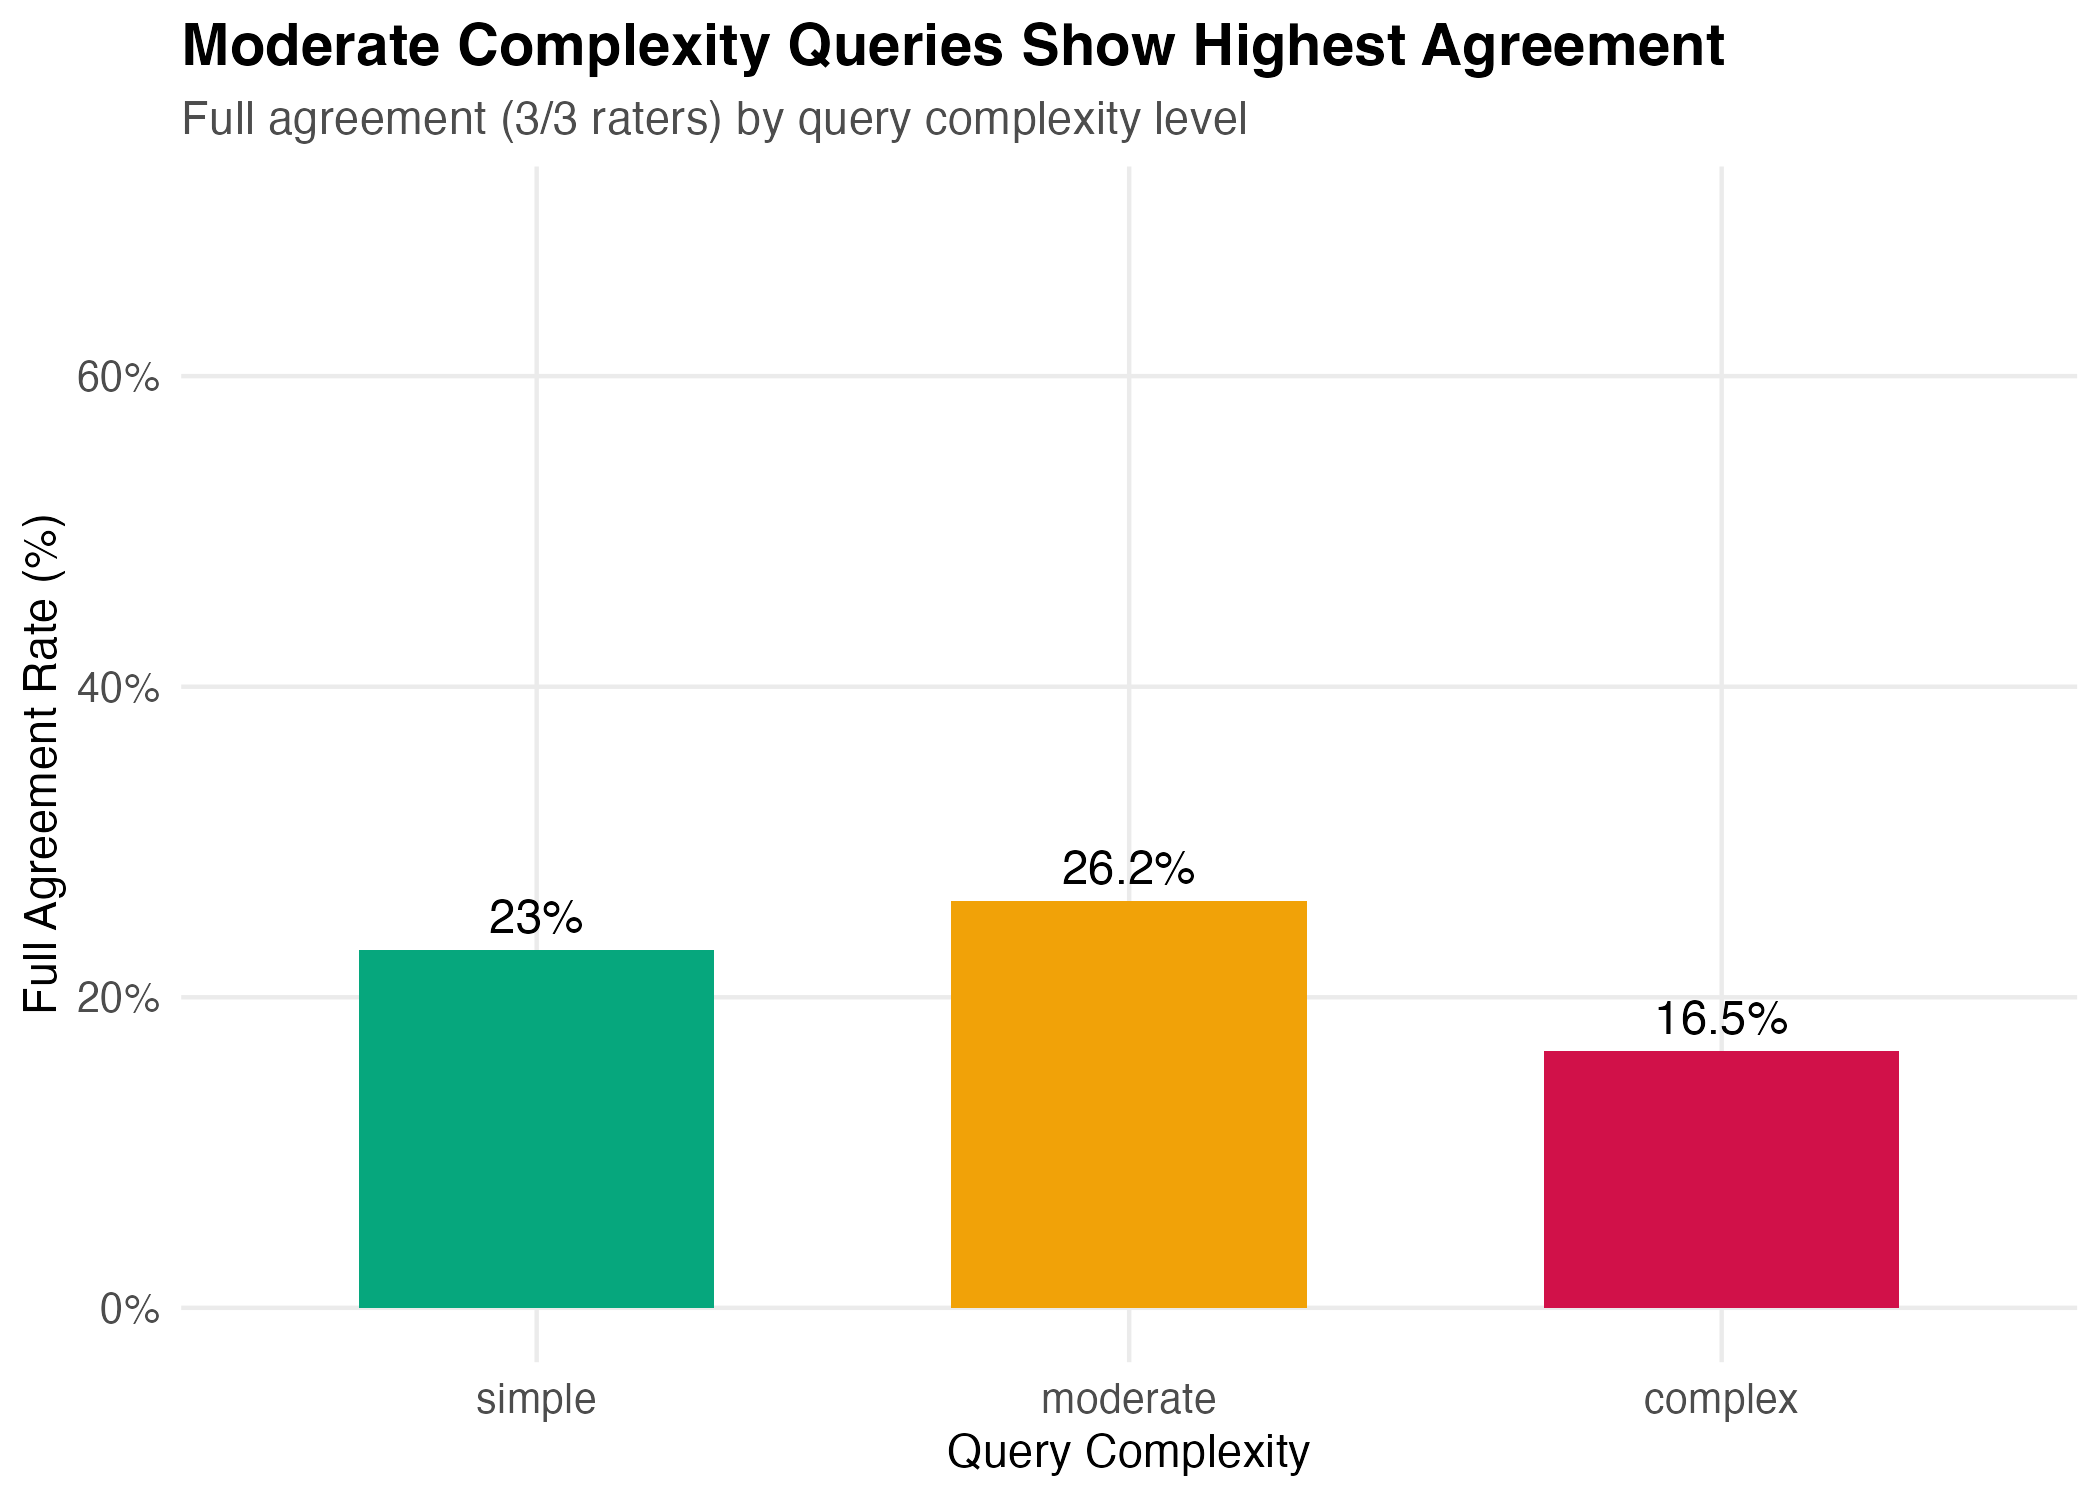
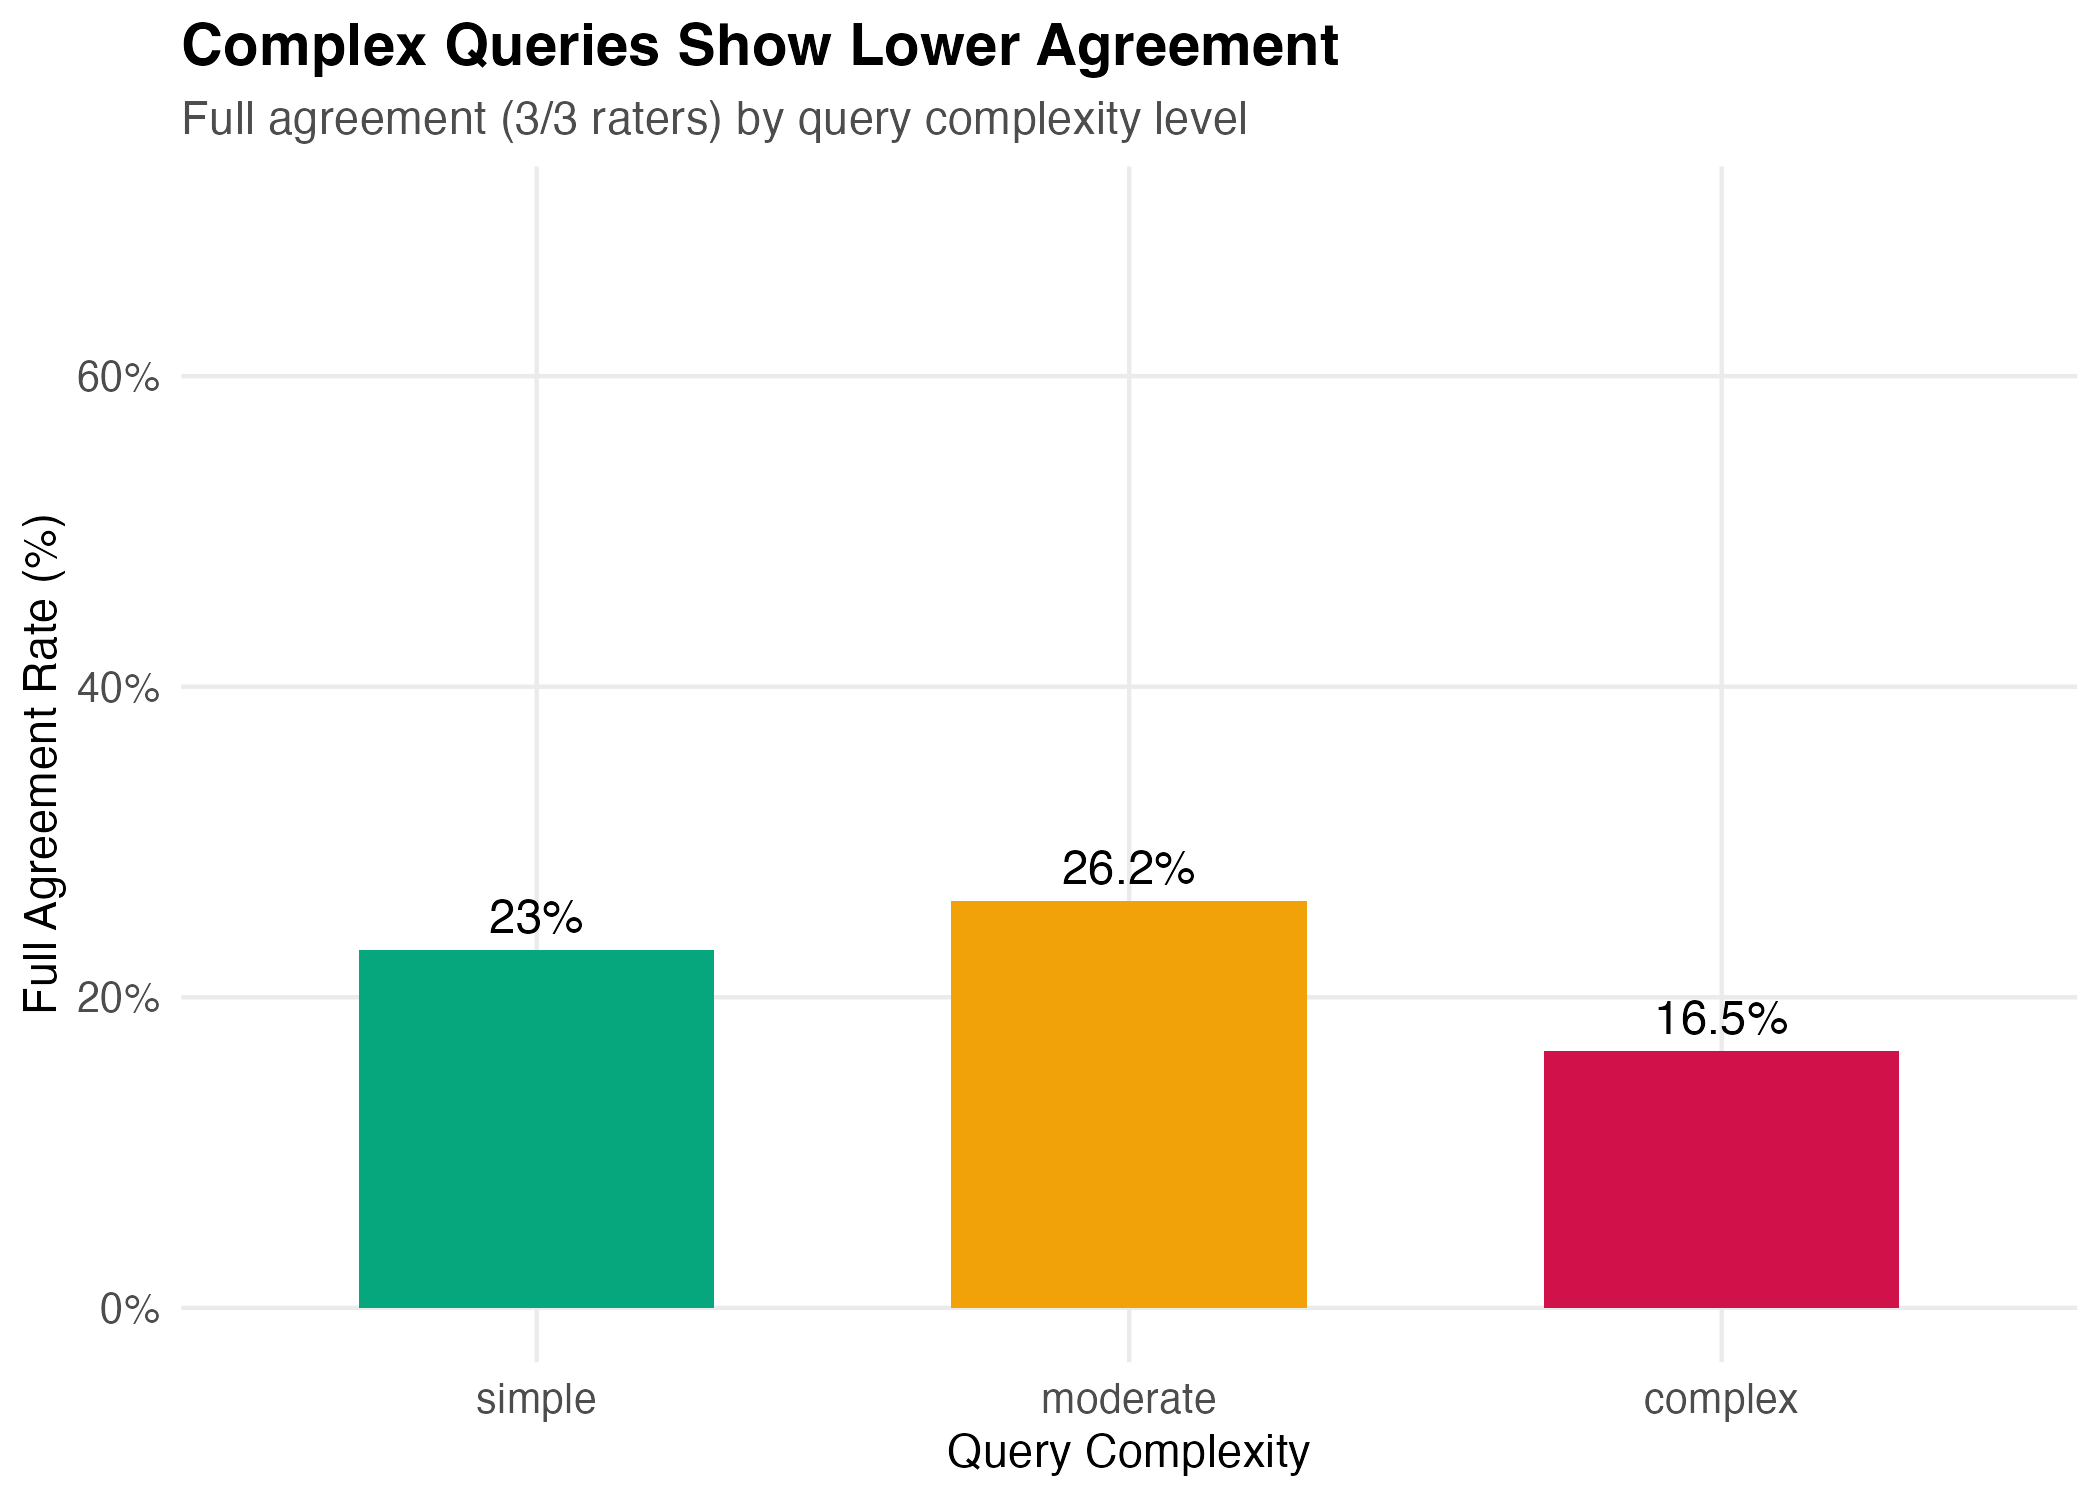
Correct misleading titles and captions in visualization script

Changed region(s): [[0.0929, 0.0, 0.8357, 0.0613]]

diff --git a/README.md b/README.md
@@ -240,11 +240,11 @@ Systematic regression to the mean: - Quality 1 responses overrated by 0.35 point
 
 ## Key Visualizations
 
-### Moderate Complexity Advantage
+### Complexity Impact on Agreement
 
 ![Agreement by Complexity](output/figures/02_agreement_by_complexity.png)
 
-*Moderate complexity queries show highest agreement rates (26.2%), defying conventional assumptions that simpler = easier to evaluate consistently.*
+*Complex queries show significantly lower agreement (16.5% vs 23-26% for simple/moderate), demonstrating how evaluation difficulty reduces inter-rater consistency.*
 
 ------------------------------------------------------------------------
 
